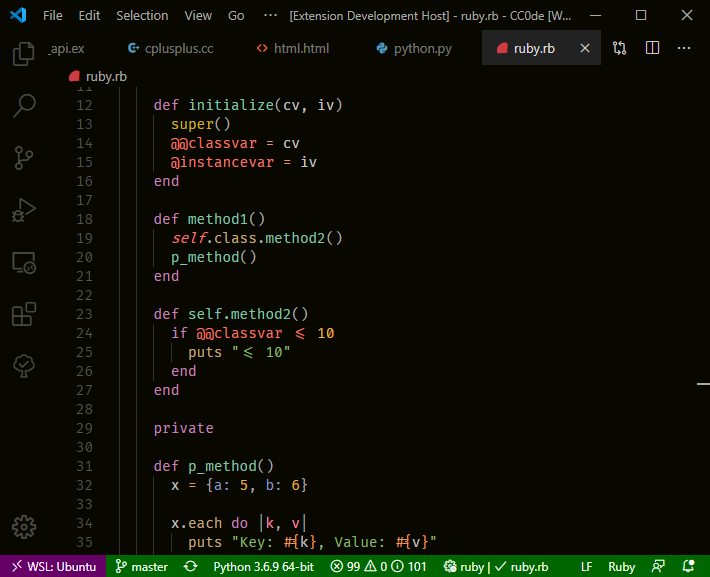
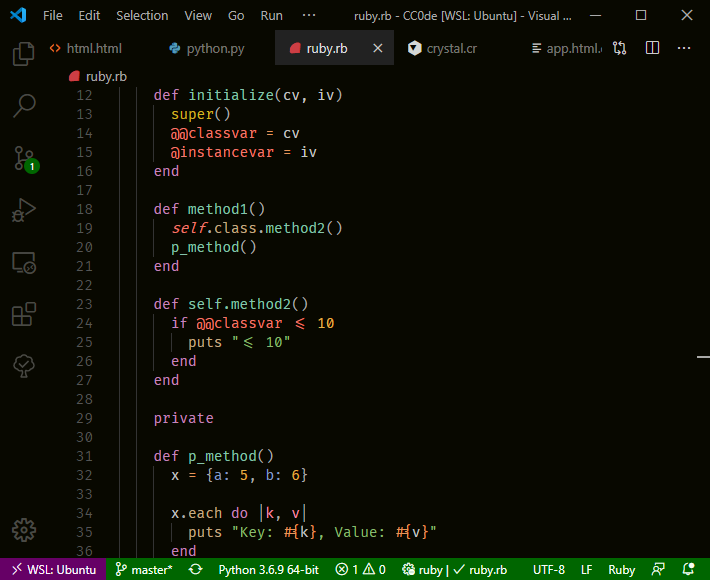
readme

diff --git a/README.md b/README.md
@@ -1,28 +1,30 @@
 # Night Coder
 
-A new dark theme fro Night Coders.
+A dark theme for Night Coders. There are two versions: _dark_ and _bright_.
+
+![demo](screenshot/night-coder.gif)
 
 ## Screenshots
 
 ### Javascript
 
-![javascript screenshot](screenshot/javascript.png)
+![javascript screenshot](screenshot/javascript-bright.png)
 
 ### HTML
 
-![html screenshot](screenshot/html.png)
+![html screenshot](screenshot/html-bright.png)
 
 ### Python
 
-![python screenshot](screenshot/python.png)
+![python screenshot](screenshot/python-bright.png)
 
 ### Go
 
-![go screenshot](screenshot/go.png)
+![go screenshot](screenshot/go-bright.png)
 
 ### Ruby
 
-![ruby screenshot](screenshot/ruby.png)
+![ruby screenshot](screenshot/ruby-bright.png)
 
 <br>Modification indicators with `"workbench.editor.highlightModifiedTabs": true`.
 
